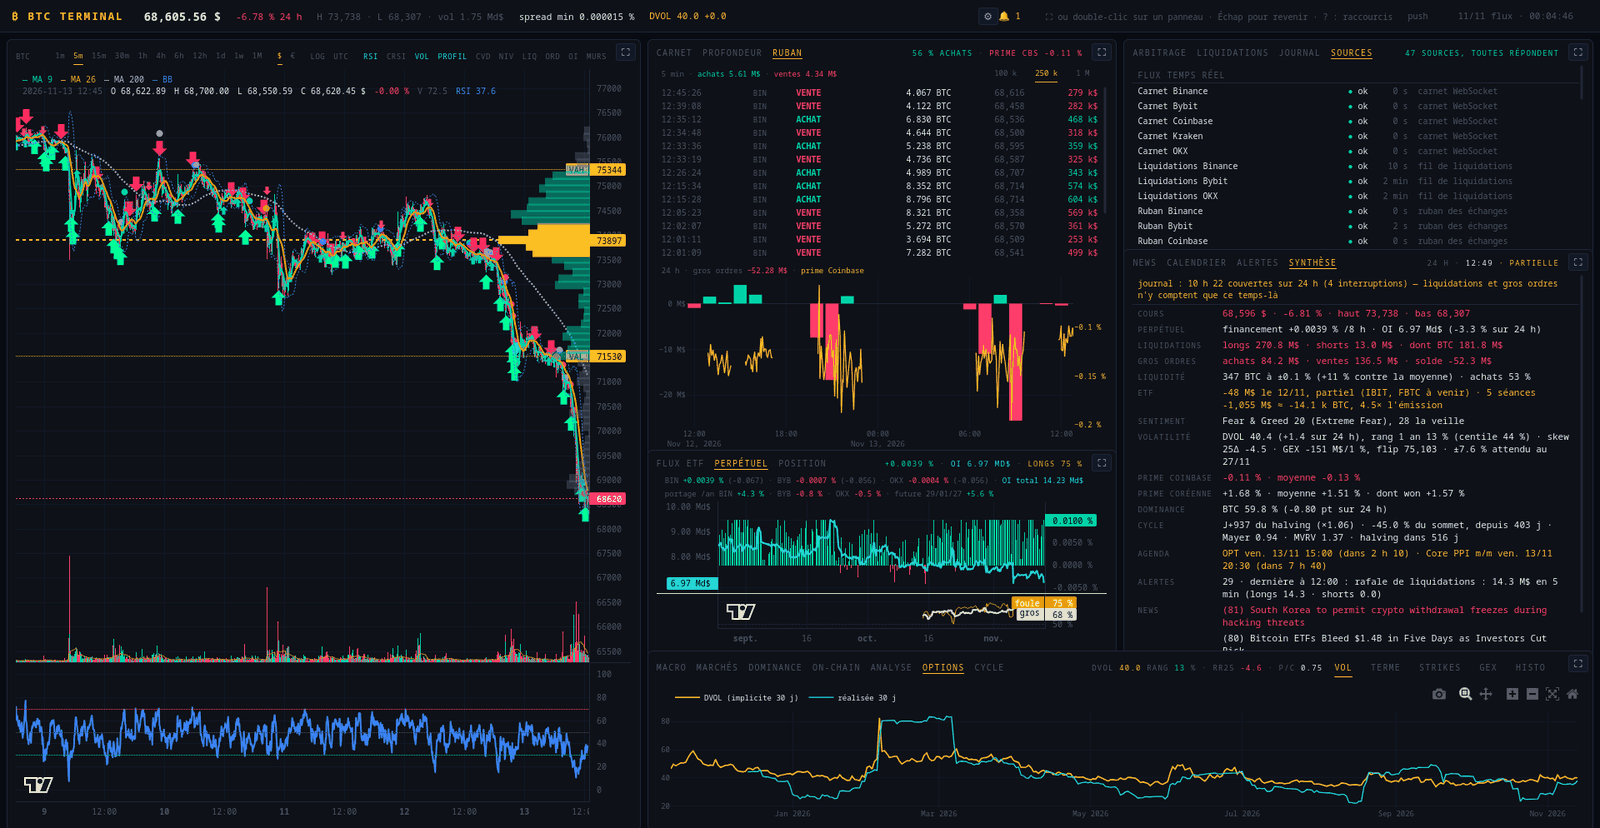
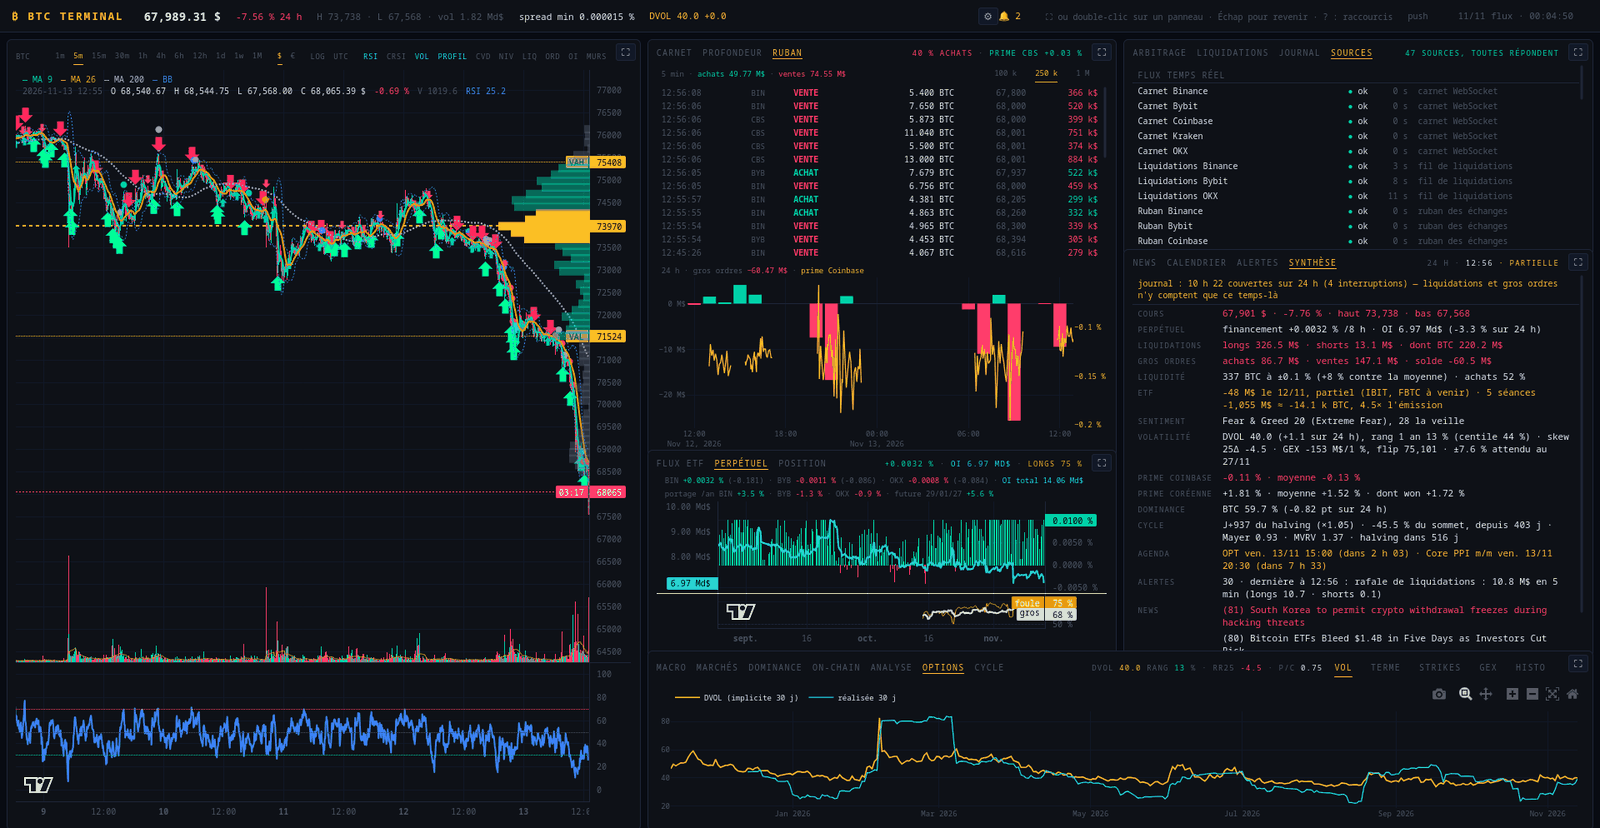
Les sonneries du graphique à l'heure du terminal, et au survol seulement
En journalier, l'axe reste en UTC : la rafale de 12:00 s'écrivait
« 05:00 ». Et la lecture sans survol, celle de la dernière bougie,
gardait toutes les sonneries du jour sur deux lignes de la grille.

diff --git a/docs/demo/lwc-price.js b/docs/demo/lwc-price.js
@@ -586,12 +586,13 @@
         if (oi !== undefined) {
             parts.push(["OI " + billions(oi) + unit, theme.orange]);
         }
-        // Les sonneries de la bougie lue, en dernier : la ligne passe à la
-        // suivante s'il le faut.
-        var index = state.hover && state.hover.logical !== undefined
-            ? Math.round(state.hover.logical)
-            : (state.packet ? state.packet.bars.length - 1 : -1);
-        parts = parts.concat(eventParts(index));
+        // Les sonneries de la bougie survolée, en dernier : la ligne passe
+        // à la suivante s'il le faut. Au survol seulement — sans lui, la
+        // lecture est celle de la dernière bougie, et en journalier toutes
+        // les sonneries du jour y restaient affichées, sur deux lignes.
+        if (state.hover && state.hover.logical !== undefined) {
+            parts = parts.concat(eventParts(Math.round(state.hover.logical)));
+        }
         parts.forEach(function (part) {
             var item = document.createElement("span");
             item.textContent = part[0];
@@ -2333,13 +2334,22 @@
             clock().shown(state.packet.bars[last].time));
     }
 
-    // L'heure d'une sonnerie dans le fuseau de l'axe ; le jour aussi
-    // au-delà de l'intraday, où une bougie couvre plusieurs journées.
+    // L'heure d'une sonnerie dans le fuseau du terminal — l'heure locale,
+    // ou l'UTC si la case est cochée —, pas dans celui de l'axe : les
+    // bougies journalières restent en UTC, et la rafale de 12:00 s'y lisait
+    // « 05:00 ». Le jour aussi au-delà de l'intraday, où une bougie couvre
+    // plusieurs journées.
     function eventTime(time) {
-        var iso = new Date(clock().shown(time) * 1000).toISOString();
-        var hour = iso.slice(11, 16);
-        return INTRADAY[state.cfg.interval] ? hour
-            : iso.slice(8, 10) + "/" + iso.slice(5, 7) + " " + hour;
+        var date = new Date(time * 1000);
+        var utc = !!state.cfg.utc;
+        function two(n) { return (n < 10 ? "0" : "") + n; }
+        var hour = two(utc ? date.getUTCHours() : date.getHours()) + ":"
+            + two(utc ? date.getUTCMinutes() : date.getMinutes())
+            + (utc ? " UTC" : "");
+        if (INTRADAY[state.cfg.interval]) { return hour; }
+        return two(utc ? date.getUTCDate() : date.getDate()) + "/"
+            + two((utc ? date.getUTCMonth() : date.getMonth()) + 1) + " "
+            + hour;
     }
 
     function eventParts(index) {

diff --git a/terminal/assets/lwc-price.js b/terminal/assets/lwc-price.js
@@ -586,12 +586,13 @@
         if (oi !== undefined) {
             parts.push(["OI " + billions(oi) + unit, theme.orange]);
         }
-        // Les sonneries de la bougie lue, en dernier : la ligne passe à la
-        // suivante s'il le faut.
-        var index = state.hover && state.hover.logical !== undefined
-            ? Math.round(state.hover.logical)
-            : (state.packet ? state.packet.bars.length - 1 : -1);
-        parts = parts.concat(eventParts(index));
+        // Les sonneries de la bougie survolée, en dernier : la ligne passe
+        // à la suivante s'il le faut. Au survol seulement — sans lui, la
+        // lecture est celle de la dernière bougie, et en journalier toutes
+        // les sonneries du jour y restaient affichées, sur deux lignes.
+        if (state.hover && state.hover.logical !== undefined) {
+            parts = parts.concat(eventParts(Math.round(state.hover.logical)));
+        }
         parts.forEach(function (part) {
             var item = document.createElement("span");
             item.textContent = part[0];
@@ -2333,13 +2334,22 @@
             clock().shown(state.packet.bars[last].time));
     }
 
-    // L'heure d'une sonnerie dans le fuseau de l'axe ; le jour aussi
-    // au-delà de l'intraday, où une bougie couvre plusieurs journées.
+    // L'heure d'une sonnerie dans le fuseau du terminal — l'heure locale,
+    // ou l'UTC si la case est cochée —, pas dans celui de l'axe : les
+    // bougies journalières restent en UTC, et la rafale de 12:00 s'y lisait
+    // « 05:00 ». Le jour aussi au-delà de l'intraday, où une bougie couvre
+    // plusieurs journées.
     function eventTime(time) {
-        var iso = new Date(clock().shown(time) * 1000).toISOString();
-        var hour = iso.slice(11, 16);
-        return INTRADAY[state.cfg.interval] ? hour
-            : iso.slice(8, 10) + "/" + iso.slice(5, 7) + " " + hour;
+        var date = new Date(time * 1000);
+        var utc = !!state.cfg.utc;
+        function two(n) { return (n < 10 ? "0" : "") + n; }
+        var hour = two(utc ? date.getUTCHours() : date.getHours()) + ":"
+            + two(utc ? date.getUTCMinutes() : date.getMinutes())
+            + (utc ? " UTC" : "");
+        if (INTRADAY[state.cfg.interval]) { return hour; }
+        return two(utc ? date.getUTCDate() : date.getDate()) + "/"
+            + two((utc ? date.getUTCMonth() : date.getMonth()) + 1) + " "
+            + hour;
     }
 
     function eventParts(index) {

diff --git a/tests/ui_smoke.py b/tests/ui_smoke.py
@@ -287,8 +287,9 @@ def run(capture_dir: Path | None, url: str = URL) -> int:
                   or ensuite.endswith("h")),
               f"{rebours['interval']} : {rebours['countdown']} → {ensuite}")
         lecture = browser.js("return window.lwcPrice.debug().readout;")
-        check("la dernière bougie se lit sans survol",
-              "O " in (lecture or "") and "%" in lecture,
+        check("la dernière bougie se lit sans survol, sans les sonneries",
+              "O " in (lecture or "") and "%" in lecture
+              and "⚑" not in lecture,
               (lecture or "")[:60])
         cadre = browser.js("""
             const r = document.querySelector('#price-lwc canvas')

diff --git a/ARCHITECTURE.md b/ARCHITECTURE.md
@@ -2464,7 +2464,12 @@ un rond au-dessus de la bougie où une alerte a sonné, de la couleur de sa
 règle au panneau ALERTES (`KIND_COLORS`, que `/api/alert-events` joint à
 chaque sonnerie — une seule source pour la liste et le graphique), et au
 survol la sonnerie en clair au bout de la ligne de lecture, deux au plus
-par bougie et le compte des autres. Relire une séance demandait de croiser
+par bougie et le compte des autres. Au survol seulement : la lecture sans
+survol est celle de la dernière bougie, et en journalier toutes les
+sonneries du jour y restaient affichées, sur deux lignes de la grille.
+L'heure s'écrit dans le fuseau du terminal, pas dans celui de l'axe — les
+bougies journalières restent en UTC, et la rafale de 12:00 s'y lisait
+d'abord « 05:00 ». Relire une séance demandait de croiser
 la liste horodatée du panneau et le graphique. Les sonneries viennent du
 journal pour toute la plage chargée — une page d'historique ajoutée au pan
 les redemande — et se relisent quand le Store `alerts-feed` change, donc
